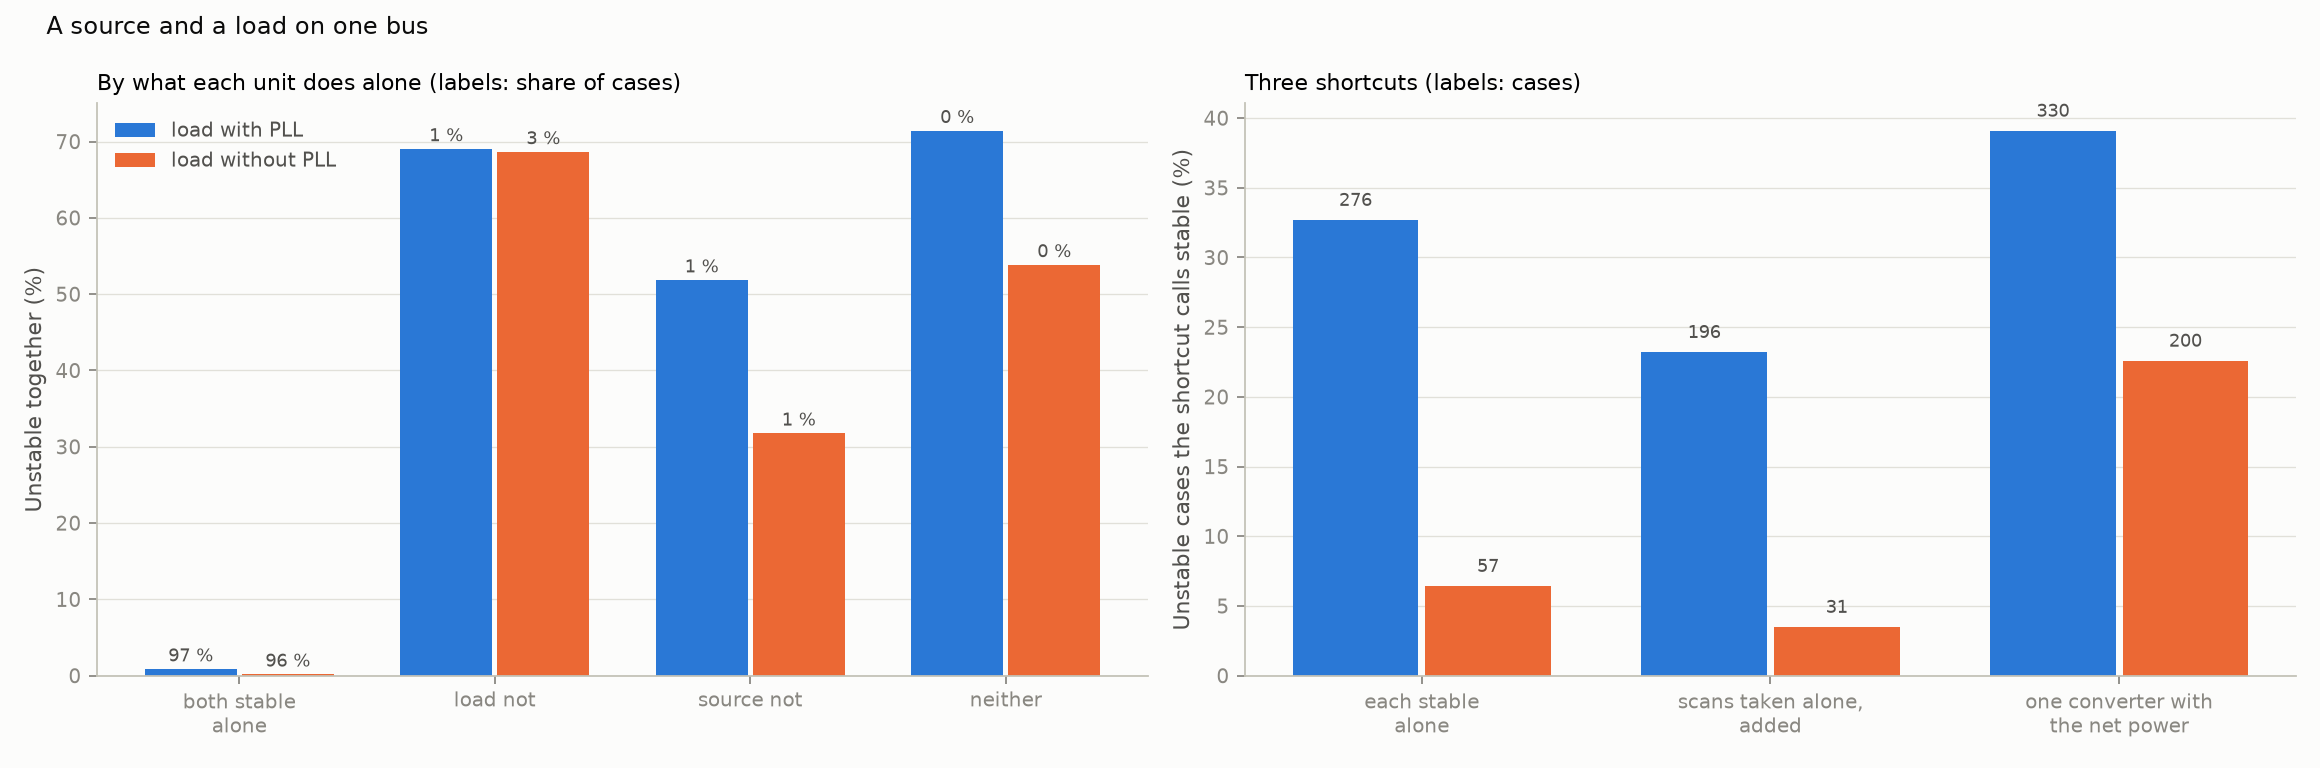
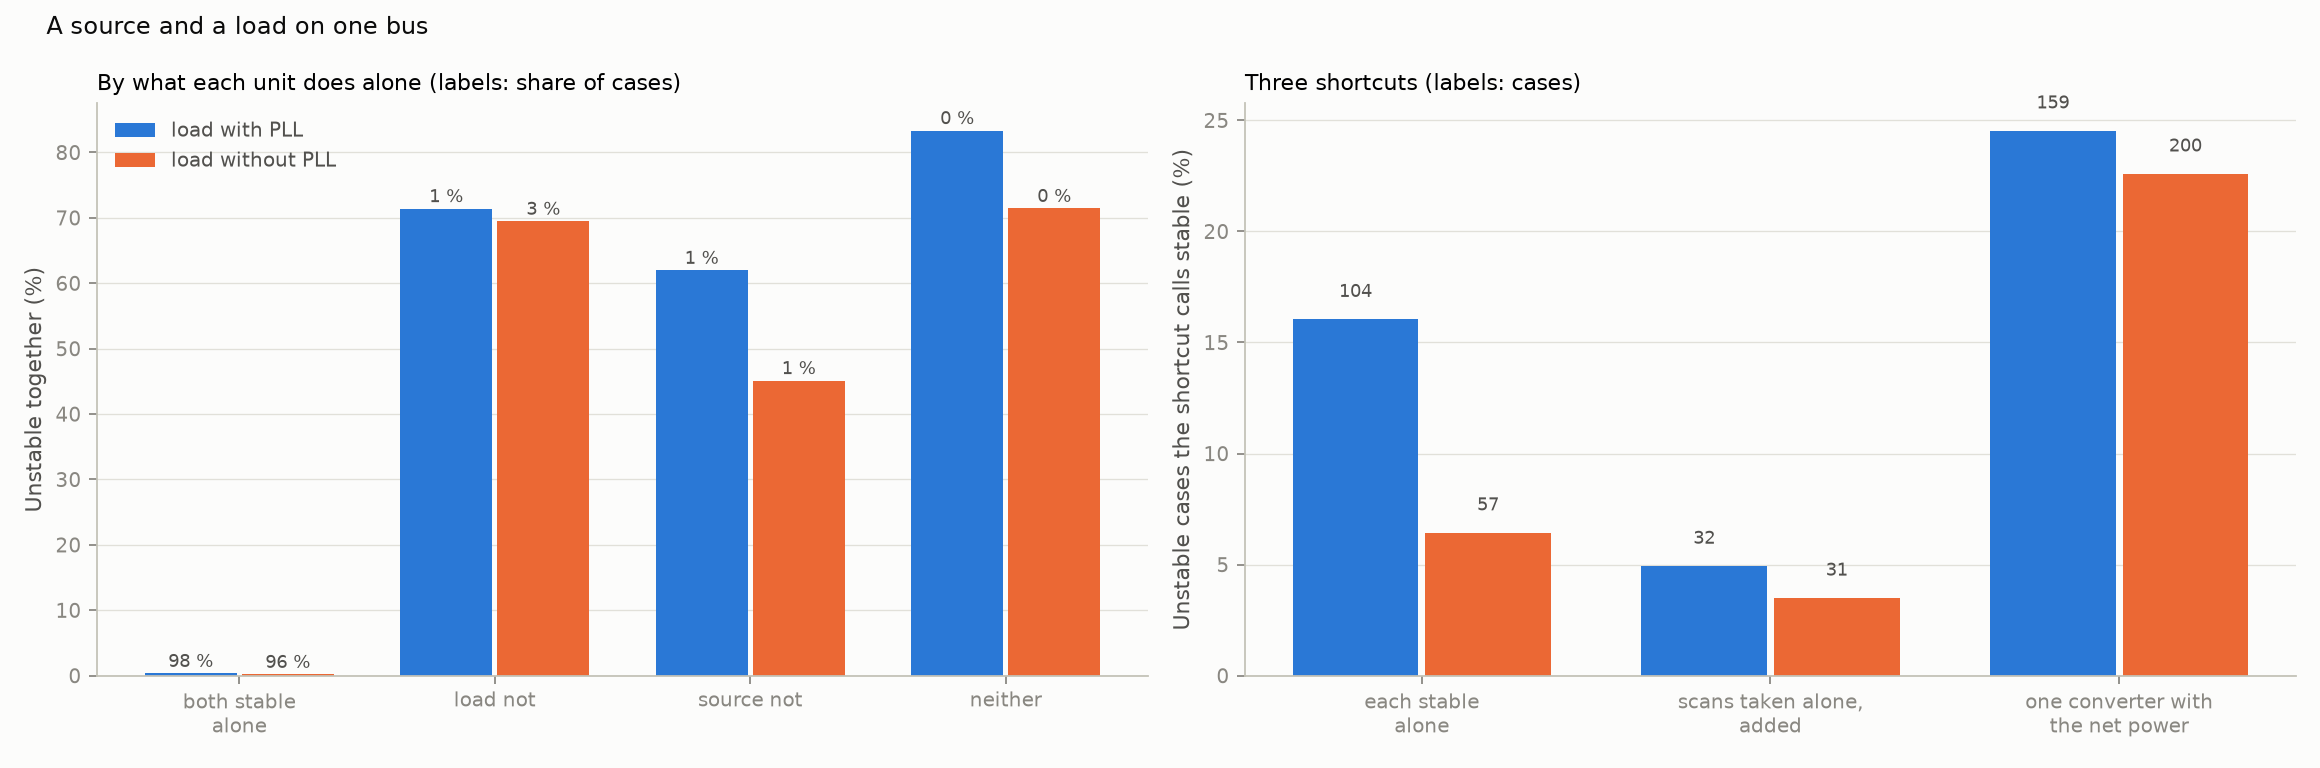
Fix modes at infinity in closed_loop_modes; rerun and correct step 27

diff --git a/src/sso_sciml/vectorfit.py b/src/sso_sciml/vectorfit.py
@@ -24,6 +24,7 @@ from scipy.linalg import eig
 from .physics.converter import WB
 
 J = np.array([[0.0, -1.0], [1.0, 0.0]])
+MODE_LIMIT = 1e7  # 1/s; see `closed_loop_modes`
 
 
 def _basis(s: np.ndarray, poles: np.ndarray) -> np.ndarray:
@@ -213,5 +214,11 @@ def closed_loop_modes(
     e[vt, ic] = e[vt, ip] = net["x_t"] / WB * eye
     f[vt, vt], f[vt, vm] = eye, -eye
     f[vt, ic] = f[vt, ip] = -(net["r_t"] * eye + net["x_t"] * J)
-    lam = eig(f, e, right=False)
-    return lam[np.isfinite(lam)]
+    # The set has algebraic equations, so some of its generalised eigenvalues are at
+    # infinity. In floating point those come back as alpha / beta with beta near zero:
+    # sometimes inf, sometimes a finite number around 1e18 with either sign. A mode of
+    # this model cannot be faster than MODE_LIMIT, and anything beyond it is dropped.
+    alpha, beta = eig(f, e, right=False, homogeneous_eigvals=True)
+    with np.errstate(divide="ignore", invalid="ignore"):
+        lam = alpha / beta
+    return lam[np.isfinite(lam) & (np.abs(lam) < MODE_LIMIT)]

diff --git a/docs/steps/27-two-converters.md b/docs/steps/27-two-converters.md
@@ -31,7 +31,7 @@ uv run pytest tests/test_multi.py
 
 All numbers are in `docs/results/multi/two_converters.json`.
 
-Every case has a steady state. 844 of 32,768 are unstable with a load that has a phase-locked loop (2.6 %) and 885 with one that has not (2.7 %).
+Every case has a steady state. 648 of 32,768 are unstable with a load that has a phase-locked loop (2.0 %) and 885 with one that has not (2.7 %).
 
 ### Alone against together
 
@@ -39,39 +39,39 @@ Every case has a steady state. 844 of 32,768 are unstable with a load that has a
 
 | What each does alone on the same network | Share of cases | Unstable together |
 |---|---|---|
-| Load with PLL: both stable | 97.2 % | 0.87 % |
-| source stable, load not | 1.5 % | 69 % |
-| source not, load stable | 1.3 % | 52 % |
-| Load without PLL: both stable | 95.6 % | 0.18 % |
-| source stable, load not | 3.1 % | 69 % |
-| source not, load stable | 1.2 % | 32 % |
+| Load with PLL: both stable | 97.5 % | 0.33 % |
+| source stable, load not | 1.4 % | 71 % |
+| source not, load stable | 1.0 % | 62 % |
+| Load without PLL: both stable | 96.1 % | 0.18 % |
+| source stable, load not | 3.0 % | 69 % |
+| source not, load stable | 0.9 % | 45 % |
 
-- **Two units that are each stable alone can be unstable together.** 276 cases with a load that has a phase-locked loop, 57 with one that has not. Each unit alone sees the whole network; together they share it, and the source has to supply the reactive current that holds the voltage for both.
-- **A unit that is unstable alone is often cured by the other.** A source unstable by itself is stable beside the load in 48 % and 68 % of cases. A load unstable by itself is stable beside the source in 31 %.
-- **For most pairs the other unit changes little.** Among pairs stable alone, the growth rate together differs from the worse of the two alone by less than 0.01 1/s in half the cases. The 5th and 95th percentiles are −0.14 and +0.05 1/s with a phase-locked loop on the load, −0.51 and +0.09 without.
+- **Two units that are each stable alone can be unstable together.** 104 cases with a load that has a phase-locked loop, 57 with one that has not. Each unit alone sees the whole network; together they share it, and the source has to supply the reactive current that holds the voltage for both.
+- **A unit that is unstable alone is often cured by the other.** A source unstable by itself is stable beside the load in 38 % and 54 % of cases. A load unstable by itself is stable beside the source in 28 % and 30 %.
+- **For most pairs the other unit changes little.** Among pairs stable alone, the growth rate together differs from the worse of the two alone by less than 0.01 1/s in half the cases. The 5th and 95th percentiles are −0.14 and +0.04 1/s with a phase-locked loop on the load, −0.51 and +0.09 without.
 
 ### The three shortcuts
 
-Unstable cases the shortcut calls stable, of 844 and 885, and stable cases it flags.
+Unstable cases the shortcut calls stable, of 648 and 885, and stable cases it flags.
 
 | Shortcut | Load with PLL | Load without PLL |
 |---|---|---|
-| Each stable alone | 276 (33 %), 362 flagged | 57 (6 %), 599 flagged |
-| Scans taken alone, added | 196 (23 %), 150 flagged | 31 (4 %), 177 flagged |
-| One converter with the net power | 330 (39 %), 850 flagged | 200 (23 %), 933 flagged |
+| Each stable alone | 104 (16 %), 260 flagged | 57 (6 %), 464 flagged |
+| Scans taken alone, added | 32 (5 %), 29 flagged | 31 (4 %), 176 flagged |
+| One converter with the net power | 159 (25 %), 813 flagged | 200 (23 %), 878 flagged |
 
 - **None of the three is safe.**
 - **Adding scans is right in principle and wrong in practice if the scans are taken alone.** The admittance of the bus is exactly the sum of the units' admittances at the operating point they have together. Scanned alone, the source is at a different reactive current: the difference has a median of 0.03 pu and a 95th percentile of 0.33 pu with a phase-locked loop on the load, 0.06 and 0.51 without. This is step 26 again: the admittance moves with the operating point.
-- **The net power of the bus is not a plant.** A single converter carrying the net power misses a quarter to two fifths of the unstable cases and flags more stable ones than any other shortcut.
+- **The net power of the bus is not a plant.** A single converter carrying the net power misses about a quarter of the unstable cases and flags more stable ones than any other shortcut.
 
 ### Net power and gross power
 
 ![Net and gross power](../results/multi/fig68_net_and_gross.png)
 
-Share unstable by the size of the net power of the bus: 1.7 %, 2.9 %, 4.7 % and 6.0 % in steps of 0.2 pu with a phase-locked loop on the load; 2.0 %, 2.8 %, 4.3 % and 6.2 % without. By the gross power, source plus load: 1.8 % to 3.4 %, and 1.9 % to 3.6 %.
+Share unstable by the size of the net power of the bus: 1.5 %, 2.1 %, 3.2 % and 4.0 % in steps of 0.2 pu with a phase-locked loop on the load; 2.0 %, 2.8 %, 4.3 % and 6.2 % without. By the gross power, source plus load: 1.5 % to 2.5 %, and 1.9 % to 3.6 %.
 
 - **Net power matters more than gross power.** At a given net power the share unstable hardly moves with the gross power. A source and a load do offset each other.
-- **They do not cancel.** With a net power below 0.1 pu, where the bus exchanges almost nothing with the network, 1.5 % and 2.0 % of cases are unstable, with a median gross power of 0.36 pu. A screen on net injection would pass all of them.
+- **They do not cancel.** With a net power below 0.1 pu, where the bus exchanges almost nothing with the network, 1.4 % and 2.0 % of cases are unstable, with a median gross power of 0.36 pu. A screen on net injection would pass all of them.
 
 ### Modes between the units
 
@@ -86,6 +86,8 @@ Two identical units at the same operating point have the modes of the one conver
 - **A second kind of mode appears with more than one unit.** The modes between units are invisible from the network side. A scan at the bus terminals would not show them; a scan of each unit would.
 
 ## Disagreements
+
+Correction made in step 28: the first version of this step counted a numerical artefact as a mode. The routine that closes a plant on the network returned, in about 0.7 % of cases, an eigenvalue at infinity as a finite number near 1e18, and this step took the largest real part without a bound. The routine is fixed and the study rerun. The family with a phase-locked loop on the load changed: 648 unstable pairs, not 844; 104 pairs stable alone and unstable together, not 276; the shortcuts miss 16 %, 5 % and 25 %, not 33 %, 23 % and 39 %. The family without one changed in the counts of stable cases flagged only. The conclusions stand. Steps 20 to 26 bounded the modes by frequency and were not affected.
 
 1. **The expectation was that source and load add their negative conductance and that gross power would rank the risk** (step 17: both show −P/V² at low frequency). It does not. Net power ranks it better. A likely reason, not tested: the two negative conductances sit on different axes and in different bands, and the reactive current that the weak-grid instability depends on follows the net flow.
 2. **The source regulates the voltage and the load does not.** That is one choice. With the load regulating, or both sharing, the reactive currents and the results would differ. Not tested.
